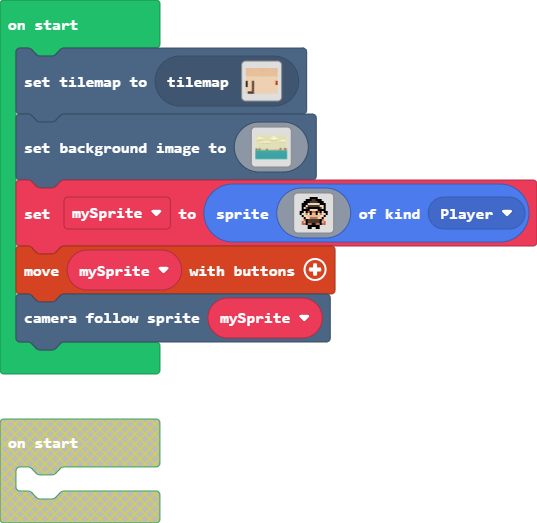
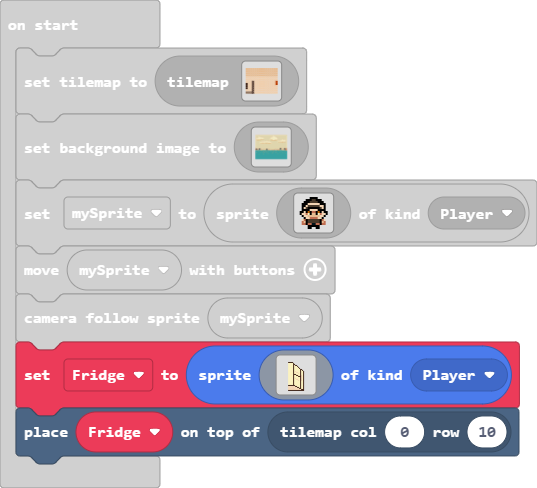
Update main.blocks, main.ts, tilemap.g.jres, tilemap.g.ts

diff --git a/tilemap.g.ts b/tilemap.g.ts
@@ -20,6 +20,8 @@ namespace myTiles {
     export const tile8 = image.ofBuffer(hex``);
     //% fixedInstance jres blockIdentity=images._tile
     export const tile9 = image.ofBuffer(hex``);
+    //% fixedInstance jres blockIdentity=images._tile
+    export const tile10 = image.ofBuffer(hex``);
 
     helpers._registerFactory("tilemap", function(name: string) {
         switch(helpers.stringTrim(name)) {
@@ -43,20 +45,20 @@ namespace myTiles {
 . . . . . . . . . . . . . . . . 
 `, [myTiles.transparency16], TileScale.Sixteen);
             case "Cafe":
[2 lines of base64/hex data omitted]
 2 2 2 2 2 2 2 2 2 2 2 2 2 2 2 
 2 2 2 2 2 2 2 2 2 2 2 2 2 2 2 
 2 2 2 2 2 2 2 2 2 2 2 2 2 2 2 
 2 2 2 2 2 2 2 2 2 2 2 2 2 2 2 
 . . . . . . . . . . . . . . . 
 . . . . . . . . . . . . . . . 
+. . . 2 . . . . . . . . . . . 
 2 . . 2 . . . . . . . . . . . 
 2 . . 2 . . . . . . . . . . . 
 2 . . 2 . . . . . . . . . . . 
 . . . 2 . . . . . . . . . . . 
-. . . 2 . . . . . . . . . . . 
-. 2 2 2 . . . . . . . . . . . 
-`, [myTiles.transparency16,myTiles.tile2,myTiles.tile4,myTiles.tile1,myTiles.tile6,myTiles.tile7,myTiles.tile3,myTiles.tile5,myTiles.tile8,myTiles.tile9], TileScale.Sixteen);
+2 2 2 2 . . . . . . . . . . . 
+`, [myTiles.transparency16,myTiles.tile2,myTiles.tile4,myTiles.tile1,myTiles.tile6,myTiles.tile7,myTiles.tile3,myTiles.tile5,myTiles.tile8,myTiles.tile9,myTiles.tile10], TileScale.Sixteen);
         }
         return null;
     })
@@ -82,6 +84,8 @@ namespace myTiles {
             case "tile8":return tile8;
             case "myTile7":
             case "tile9":return tile9;
+            case "myTile8":
+            case "tile10":return tile10;
         }
         return null;
     })

diff --git a/main.ts b/main.ts
@@ -141,3 +141,5 @@ let mySprite = sprites.create(img`
     `, SpriteKind.Player)
 controller.moveSprite(mySprite)
 scene.cameraFollowSprite(mySprite)
+let Fridge = sprites.create(assets.image`fridge`, SpriteKind.Player)
+tiles.placeOnTile(Fridge, tiles.getTileLocation(0, 10))
